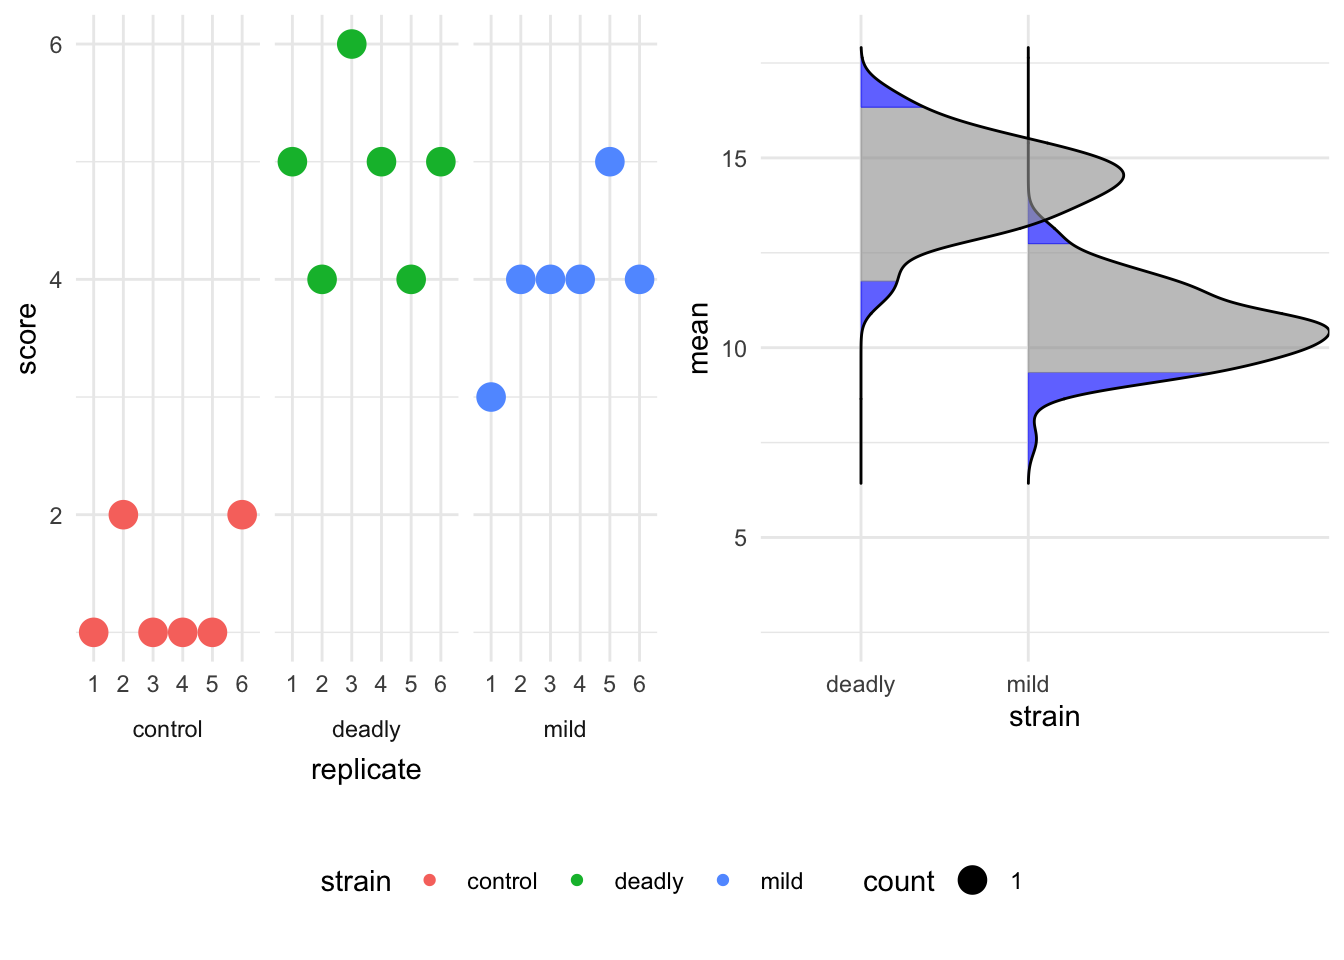
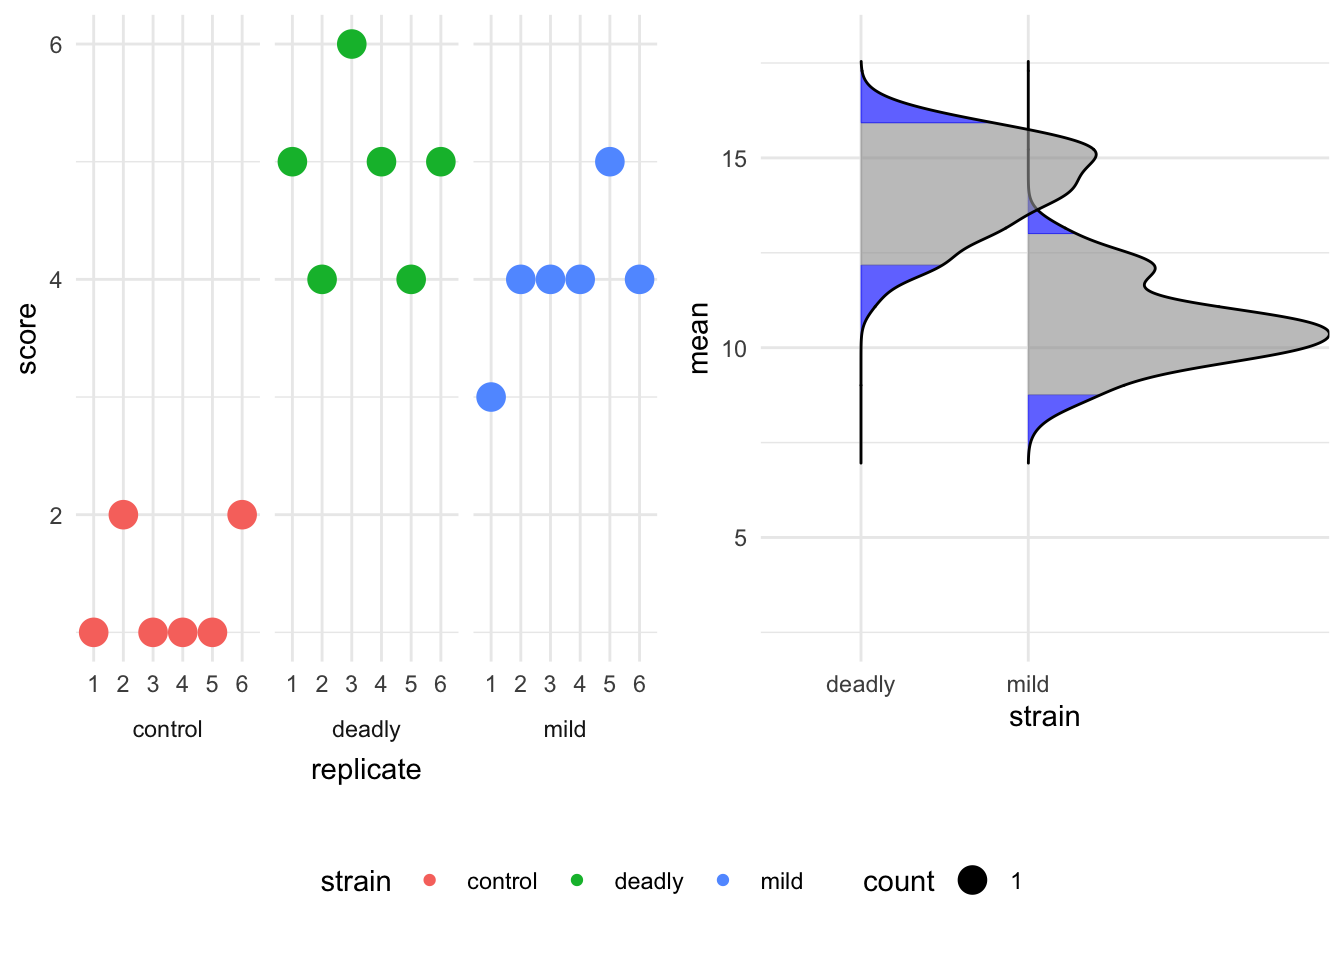
edits

Changed region(s): [[0.625, 0.0625, 1.0, 0.375], [0.75, 0.375, 0.9375, 0.5], [0.625, 0.25, 0.7188, 0.3125]]

diff --git a/docs/r-fundamentals.html b/docs/r-fundamentals.html
@@ -277,40 +277,37 @@ code span.wa { color: #60a0b0; font-weight: bold; font-style: italic; } /* Warni
 <pre><code>## [1] 4</code></pre>
 <p>Often the result from a function will be more complicated than a simple number object, often it will be a vector (simple list), like from the <code>rnorm()</code> function that returns lists of random numbers</p>
 <div class="sourceCode" id="cb17"><pre class="sourceCode r"><code class="sourceCode r"><span id="cb17-1"><a href="r-fundamentals.html#cb17-1"></a><span class="kw">rnorm</span>(<span class="dv">100</span>)</span></code></pre></div>
-<pre><code>##   [1]  0.565060641  0.906096797 -0.003955191 -0.522028679 -1.110973391
-##   [6]  0.449733018 -0.002768143  0.991216510 -0.205707913 -0.334933324
-##  [11] -1.773755346 -1.117504668  0.985869877 -0.889417714  0.838500047
-##  [16]  0.019305434  1.093177665  0.007623098 -0.422762644  0.722151730
-##  [21]  0.616047042  1.665342045  1.367857391 -0.915182279 -0.057825523
-##  [26] -0.675045859 -0.667129707 -0.888348571 -0.268024620 -0.599755983
-##  [31] -0.667508447 -0.394292088  0.282666079 -0.571977972 -0.626170863
-##  [36] -0.687310096 -0.631436379 -1.444592828 -1.024260005 -0.131481656
-##  [41]  0.313323051 -1.078379851 -0.356954085  0.478396468 -0.619562785
-##  [46] -0.081196994  1.567830452 -0.713169948 -0.722471053 -0.443058843
-##  [51]  0.520991463 -1.028615514 -1.188978484  0.003909788  0.556386421
-##  [56]  0.384091621  1.012577483 -0.625355958  1.127954561  1.135295905
-##  [61]  0.604793533  0.246530359  0.102569135  0.021243373 -0.007640750
-##  [66] -0.050230655  1.295957694 -0.431262956  0.099731811 -0.097562550
-##  [71] -2.496010203 -0.549393608 -0.555440591 -0.253075815  0.771126925
-##  [76]  1.004491633  1.032616162 -1.044306134 -0.365905525 -0.678185302
-##  [81]  0.121295815  0.740968933 -1.713386056  1.016957414 -0.198954642
-##  [86]  0.459182027  0.620345383 -1.386882159 -0.684580126 -0.331423341
-##  [91] -0.718350432 -1.136534686 -0.222080212 -0.944413798  0.192180416
-##  [96] -1.570722799  0.047182266  0.270094757  0.069927426 -0.314223532</code></pre>
+<pre><code>##   [1] -2.09703020  1.52643211 -0.56871117  0.46387105  0.58069007  1.38667832
+##   [7] -0.53375535  1.63136016 -0.28661709  0.30931523  1.01703226  0.65133327
+##  [13]  0.18048357 -2.07371861 -1.80103679 -0.05203481  0.74659137  0.42142580
+##  [19]  1.27672775  1.56485552 -0.55282278  1.23610714  0.70860981  0.25794946
+##  [25]  0.35629899  0.47787608  0.76473987  2.09830650  0.46956721 -0.81643769
+##  [31]  0.15299169 -1.11780798  0.15865937  0.33648038 -0.81053860  0.04142558
+##  [37] -0.50557212  0.96285339  0.39108314 -0.12058492  0.09191029 -2.23715276
+##  [43] -0.17248138  0.60147104  0.22222670 -0.72167929 -0.40569297 -0.45037386
+##  [49]  2.74678929 -0.20676933 -0.11710538 -1.07375238  0.47638355 -0.47526765
+##  [55]  0.01184724  0.15299666  0.07444762 -0.21274562 -0.84424506  0.87190388
+##  [61]  0.34196544 -1.64395947 -0.82251161  1.48275526  1.98354316  0.22899980
+##  [67] -0.01962209  2.01418936 -0.79393712  0.82332852  0.39734554 -0.70357658
+##  [73]  1.03865727 -0.53316936 -1.83142443  0.57513022 -0.15766156 -0.49406286
+##  [79]  0.18307528  0.49822016  0.07878188  1.35381843 -0.84902980  0.56838351
+##  [85]  0.73539167  0.83526836  0.57226436 -0.48036276 -0.69625309 -0.32220048
+##  [91] -1.26600075 -1.28772400  0.85629580  1.22800152  0.55982429  0.53693318
+##  [97] -1.84705747  0.49705516 -0.64082445 -0.51190452</code></pre>
 <p>We can combine objects, variables and functions to do more complex stuff in R, here’s how we get the mean of 100 random numbers.</p>
 <div class="sourceCode" id="cb19"><pre class="sourceCode r"><code class="sourceCode r"><span id="cb19-1"><a href="r-fundamentals.html#cb19-1"></a>numbers &lt;-<span class="st"> </span><span class="kw">rnorm</span>(<span class="dv">100</span>)</span>
 <span id="cb19-2"><a href="r-fundamentals.html#cb19-2"></a><span class="kw">mean</span>(numbers)</span></code></pre></div>
-<pre><code>## [1] 0.2009161</code></pre>
+<pre><code>## [1] -0.08706059</code></pre>
 <p>Here we created a vector object with <code>rnorm(100)</code> and assigned it to the variable <code>numbers</code>. We than used the <code>mean()</code> function, passing it the variable <code>numbers</code>. The <code>mean()</code> function returned the mean of the hundred random numbers.</p>
 </div>
 </div>
 <div id="dataframes" class="section level2">
 <h2><span class="header-section-number">3.4</span> Dataframes</h2>
 <p>One of the more common objects that R uses is a dataframe. The dataframe is a rectangular table-like object that contains data, think of it like a spreadsheet tab. Like the spreadsheet, the dataframe has rows and columns, the columns have names and the different columns can have different types of data in. Here’s a little one</p>
-<pre><code>##   names age    score
-## 1 Guido  24  8.17882
-## 2 Marty  45 10.02279
-## 3  Alan  11 56.94249</code></pre>
+<pre><code>##   names age     score
+## 1 Guido  24 87.561516
+## 2 Marty  45 55.548715
+## 3  Alan  11  2.454769</code></pre>
 <p>Usually we get a dataframe by loading in data from an external source or as a result from functions, occasionally we’ll want to hand make one, which can be done with various functions, <code>data.frame</code> being the most common.</p>
 <div class="sourceCode" id="cb22"><pre class="sourceCode r"><code class="sourceCode r"><span id="cb22-1"><a href="r-fundamentals.html#cb22-1"></a><span class="kw">data.frame</span>(</span>
 <span id="cb22-2"><a href="r-fundamentals.html#cb22-2"></a>  <span class="dt">names =</span> <span class="kw">c</span>(<span class="st">&quot;Guido&quot;</span>, <span class="st">&quot;Marty&quot;</span>, <span class="st">&quot;Alan&quot;</span>),</span>

diff --git a/docs/putting-the-pieces-together.html b/docs/putting-the-pieces-together.html
@@ -270,7 +270,7 @@ code span.wa { color: #60a0b0; font-weight: bold; font-style: italic; } /* Warni
 ## 2 group2  11.1    10  2.82       1.75  12.8  9.32</code></pre>
 <p>And the resulting <code>ci_df</code> contains the calculated values including the upper and lower values of the CI.</p>
 <p>We can apply the summaries to our existing plot using <code>geom_errorbar()</code> and the <code>data</code> argument, which will use our new data frame as the data source exclusively for this geom.</p>
-<p>Because our new data frame doesn’t have the original data in it, we have to turn off the original data mapping <code>aes()</code> with the <code>inherit.aes</code> argument and rename the <span class="math inline">\(x\)</span> axis and colour in a new <code>aes()</code>. We should also set the width of the error bars as they come out comically wide by default.</p>
+<p>Because our new data frame doesn’t have the original data in it, we have to turn off the original data mapping <code>aes()</code> with the <code>inherit.aes</code> argument and rename the <span class="math inline">\(x\)</span> axis and colour in a new <code>aes()</code>. We should also set the width of the cross lines at the limits of the error bars as they come out comically wide by default.</p>
 <div class="sourceCode" id="cb59"><pre class="sourceCode r"><code class="sourceCode r"><span id="cb59-1"><a href="putting-the-pieces-together.html#cb59-1"></a>base_plot <span class="op">+</span><span class="st"> </span><span class="kw">geom_errorbar</span>(<span class="dt">data =</span> ci_df, <span class="dt">inherit.aes =</span> <span class="ot">FALSE</span>, <span class="kw">aes</span>(<span class="dt">x=</span>group, <span class="dt">ymax=</span>upper, <span class="dt">ymin=</span>lower, <span class="dt">colour=</span>group), <span class="dt">width=</span><span class="fl">0.25</span>)</span></code></pre></div>
 <p><img src="estimation-stats_files/figure-html/unnamed-chunk-48-1.png" width="672" /></p>
 <p>And there we have a clear view of the 95% CI of the means in our groups.</p>
@@ -294,7 +294,7 @@ code span.wa { color: #60a0b0; font-weight: bold; font-style: italic; } /* Warni
 ## =============================================================
 ## 
 ## Good afternoon!
-## The current time is 13:18 pm on Tuesday February 09, 2021.
+## The current time is 13:23 pm on Tuesday February 09, 2021.
 ## 
 ## Dataset    :  mouse_wts
 ## The first five rows are:
@@ -365,13 +365,13 @@ code span.wa { color: #60a0b0; font-weight: bold; font-style: italic; } /* Warni
 <span id="cb67-2"><a href="putting-the-pieces-together.html#cb67-2"></a></span>
 <span id="cb67-3"><a href="putting-the-pieces-together.html#cb67-3"></a>est_<span class="dv">1</span> &lt;-<span class="st"> </span><span class="kw">estimate</span>(hr_scores, score, strain, <span class="dt">control=</span><span class="st">&quot;control&quot;</span>)</span>
 <span id="cb67-4"><a href="putting-the-pieces-together.html#cb67-4"></a><span class="kw">plot</span>(est_<span class="dv">1</span>)</span></code></pre></div>
-<pre><code>## Picking joint bandwidth of 0.351</code></pre>
+<pre><code>## Picking joint bandwidth of 0.413</code></pre>
 <p><img src="estimation-stats_files/figure-html/unnamed-chunk-57-1.png" width="672" /></p>
 <p>The resulting bootstrap estimations are performed on ranked data, the ranks are computed automatically for us and the resulting rank mean difference shown as dotted lines. The blue areas of the bootstrap distribution show the 95% CI for the mean rank. The plot is again very clear that the <code>control</code> has lower mean rank than each of the other two <code>strain</code>s but the <code>mild</code> and <code>deadly</code> strains are not much different from each other.</p>
 <p>We can see technical replicates if we have used them by extending the call to estimate to include these explictly and we can plot them by setting the <code>which</code> argument to <code>just_data</code>.</p>
 <div class="sourceCode" id="cb69"><pre class="sourceCode r"><code class="sourceCode r"><span id="cb69-1"><a href="putting-the-pieces-together.html#cb69-1"></a>est_<span class="dv">2</span> &lt;-<span class="st"> </span><span class="kw">estimate</span>(hr_scores, score, strain, replicate, <span class="dt">control=</span><span class="st">&quot;control&quot;</span>)</span>
 <span id="cb69-2"><a href="putting-the-pieces-together.html#cb69-2"></a><span class="kw">plot</span>(est_<span class="dv">2</span>, <span class="dt">which=</span><span class="st">&quot;just_data&quot;</span>)</span></code></pre></div>
-<pre><code>## Picking joint bandwidth of 0.386</code></pre>
+<pre><code>## Picking joint bandwidth of 0.403</code></pre>
 <p><img src="estimation-stats_files/figure-html/unnamed-chunk-58-1.png" width="672" /></p>
 <p>The plot is clearer now about the spread of scores in different replicates.</p>
 
